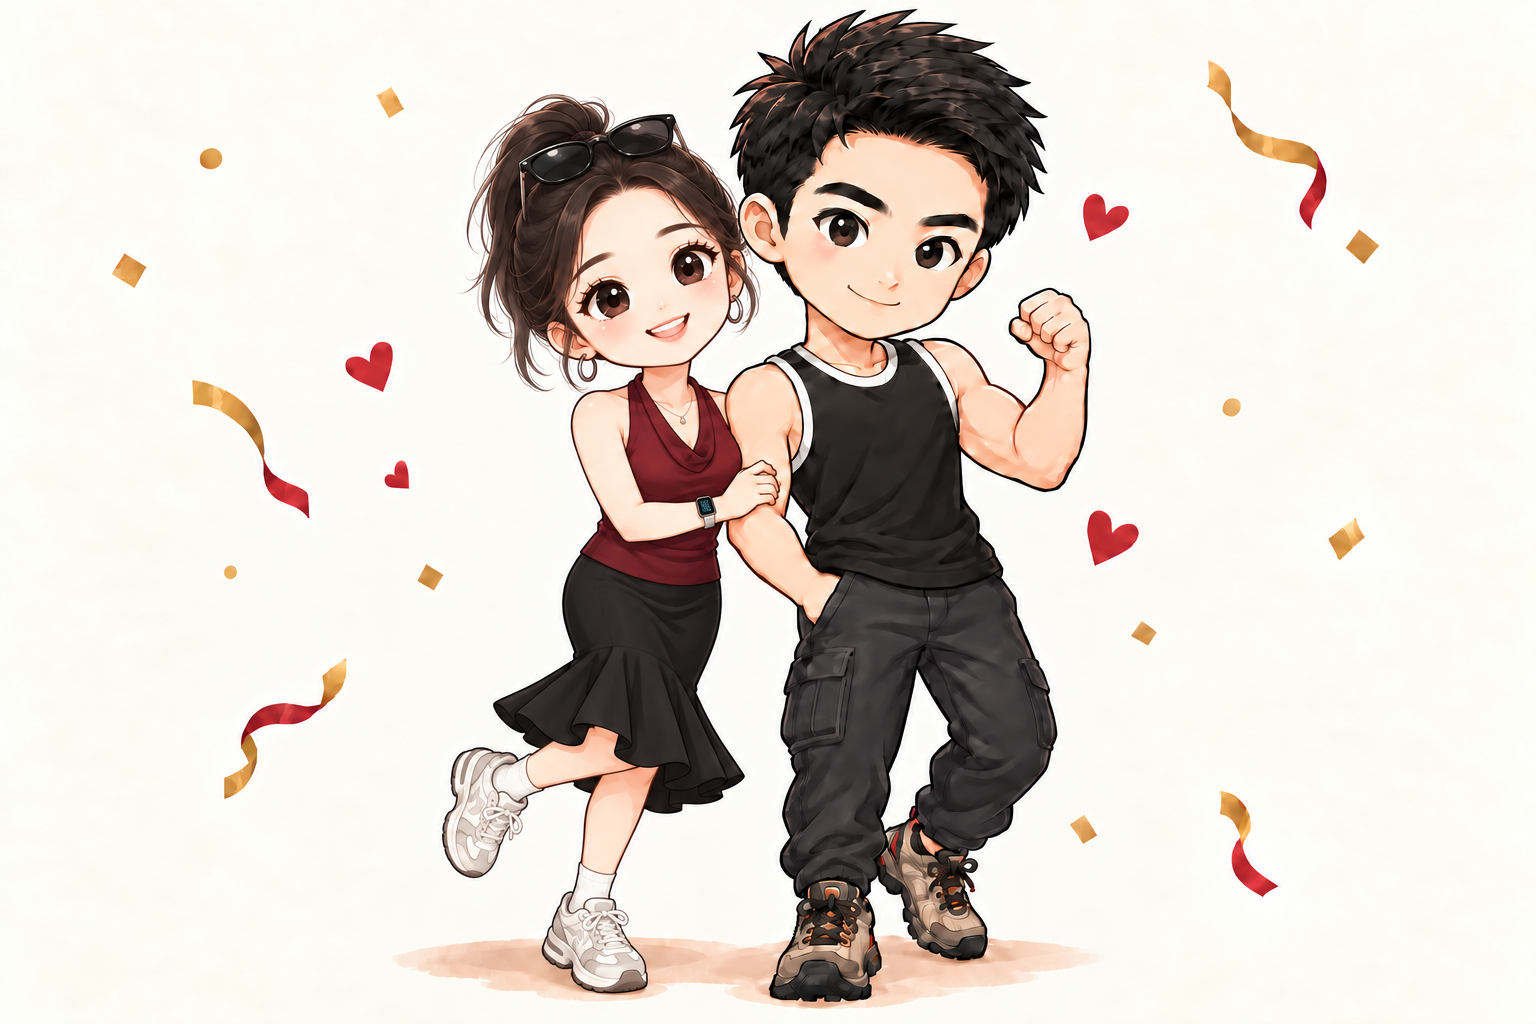
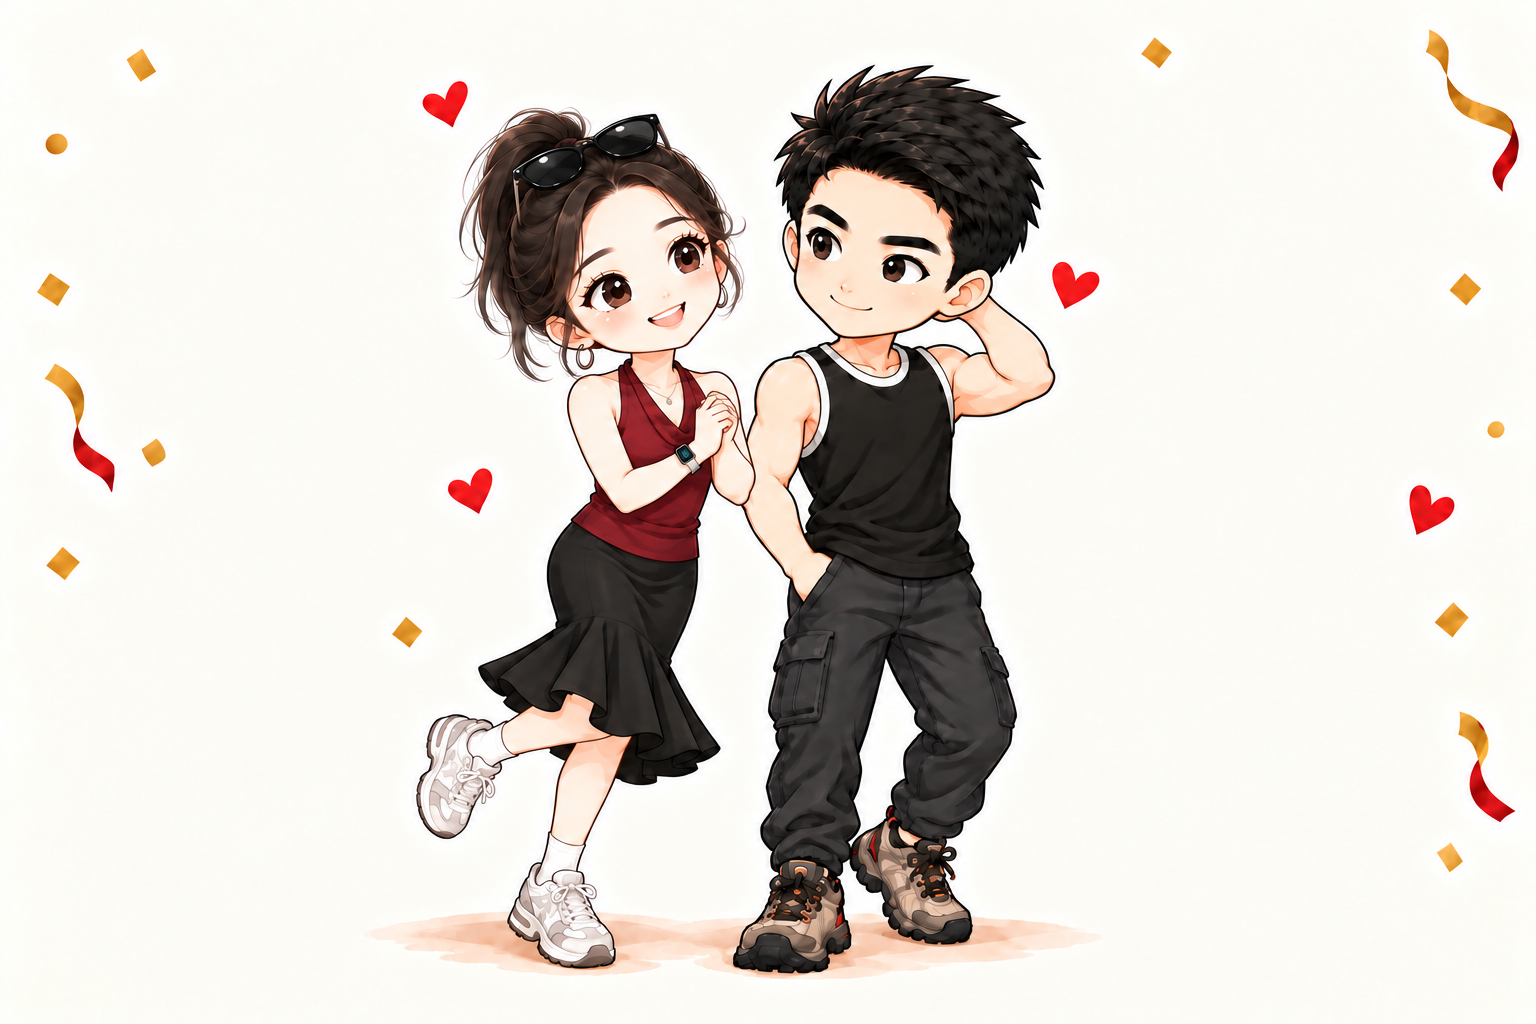
Bring invitation characters closer together

diff --git a/index.html b/index.html
@@ -24,7 +24,7 @@
 </head>
 <body>
   <main class="scene">
-    <img class="characters" src="xiaoni-xiaochuan-separated.png?v=2" alt="小妮和小川靠在一起的卡通形象">
+    <img class="characters" src="xiaoni-xiaochuan-separated.png?v=3" alt="小妮和小川靠在一起的卡通形象">
     <section class="panel" aria-labelledby="title">
       <div id="invite">
         <div class="date">9 月 27 日 · 晚餐</div>
